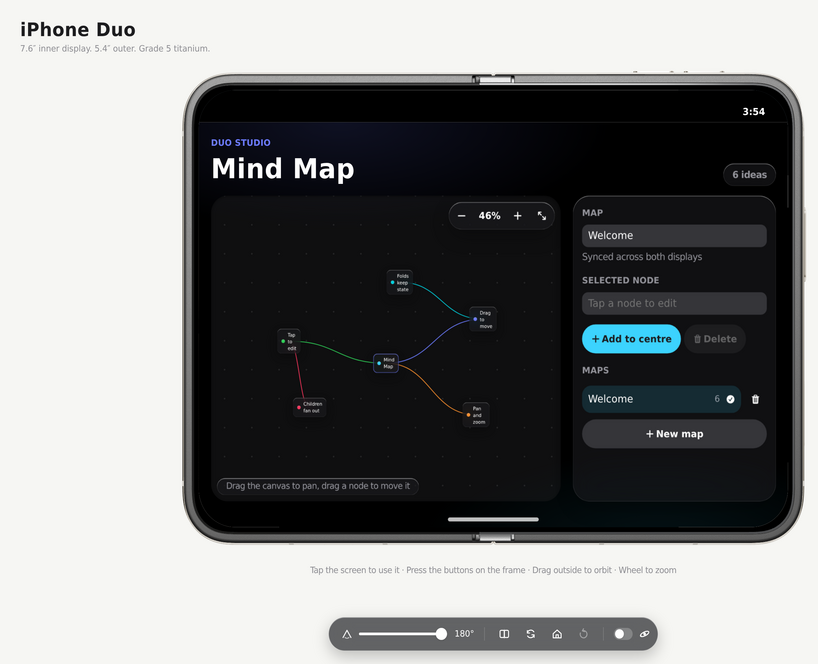
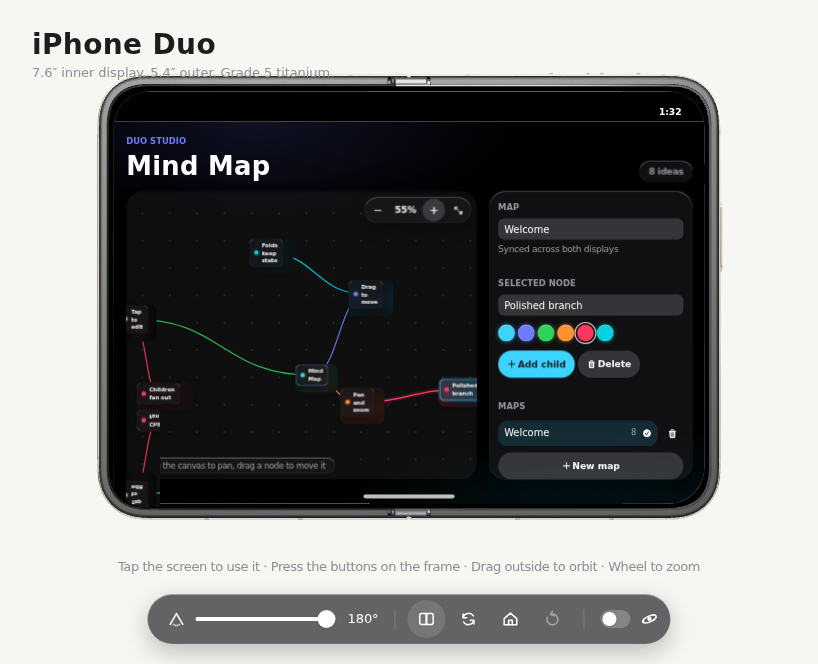
mind-map: polish nodes, edges and panel hierarchy
Strengthen the selected-node affordance (cyan ring plus halo, glowing
hue-matched parent edge), make node text semibold, draw new edges in via
stroke-dashoffset, and let remotely moved nodes glide while the locally
dragged node keeps its instant transform. The panel gains hairline section
separators, the cover gets its own hint, a roomier delete target, and a
check-marked Saved status; colour dots now glow in their own hue. Fresh
cover/inner screenshots from the running app.

diff --git a/community-apps/mind-map/styles.ts b/community-apps/mind-map/styles.ts
@@ -46,6 +46,13 @@ const fadeIn = stylex.keyframes({
   '0%': { opacity: 0 },
   '100%': { opacity: 1 }
 })
+// A new branch traces itself in: pathLength is set to 1 in markup so the
+// dash math is trivial, and the static style is visible so nothing vanishes
+// when the draw ends.
+const edgeIn = stylex.keyframes({
+  '0%': { strokeDashoffset: 1 },
+  '100%': { strokeDashoffset: 0 }
+})
 
 export const styles = stylex.create({
   root: {
@@ -143,8 +150,22 @@ export const styles = stylex.create({
   edges: { position: 'absolute', width: 1, height: 1, overflow: 'visible', pointerEvents: 'none' },
   // StyleX drops `fill` (not a styleable property), so paths carry fill="none"
   // as an attribute: without it the open curves fill black into the dark canvas.
-  edge: { strokeWidth: 2.5, strokeLinecap: 'round' },
-  edgeTone: (i: number) => ({ stroke: `color-mix(in srgb, ${HUES[i % HUES.length]} 78%, transparent)` }),
+  edge: {
+    strokeWidth: 3,
+    strokeLinecap: 'round',
+    strokeDasharray: 1,
+    animationName: { default: edgeIn, [reduce]: 'none' },
+    animationDuration: '.5s',
+    animationTimingFunction: easing.out
+  },
+  edgeTone: (i: number) => ({ stroke: `color-mix(in srgb, ${HUES[i % HUES.length]} 84%, transparent)` }),
+  // The branch feeding the selected node: thicker, full strength, and glowing
+  // in its own hue so the selection reads structurally, not only as a ring.
+  edgeSel: (i: number) => ({
+    strokeWidth: 3.5,
+    stroke: HUES[i % HUES.length],
+    filter: `drop-shadow(0 0 4px color-mix(in srgb, ${HUES[i % HUES.length]} 60%, transparent))`
+  }),
   node: {
     position: 'absolute',
     display: 'flex',
@@ -163,7 +184,7 @@ export const styles = stylex.create({
     fontFamily: fonts.system,
     fontSize: typeScale.footnote,
     lineHeight: leading.footnote,
-    fontWeight: weight.medium,
+    fontWeight: weight.semibold,
     textAlign: 'start',
     cursor: 'grab',
     touchAction: 'none',
@@ -172,20 +193,26 @@ export const styles = stylex.create({
     animationDuration: '.24s',
     animationTimingFunction: easing.pop,
     animationFillMode: 'both',
-    transitionProperty: 'box-shadow,background-color',
-    transitionDuration: '.18s',
+    // A node moved by the other display glides to its spot; the transform is
+    // suppressed on the locally dragged node or it would trail the finger.
+    transitionProperty: 'transform,box-shadow,background-color',
+    transitionDuration: '.22s,.18s,.18s',
+    transitionTimingFunction: easing.spring,
     ':focus-visible': { outline: `2px solid ${colors.cyanDark}`, outlineOffset: 2 }
   },
+  nodeDrag: { transitionDuration: '0s' },
   nodeCover: { maxWidth: '150px', paddingBlock: space.xs, paddingInline: space.sm, fontSize: typeScale.caption1 },
   nodeRoot: {
     boxShadow: `inset 0 0 0 1.5px color-mix(in srgb, ${colors.indigoDark} 70%, transparent),${shadow.rim},${shadow.float}`
   },
   nodeSel: {
     backgroundColor: {
-      default: `color-mix(in srgb, ${colors.cyanDark} 16%, transparent)`,
-      ':hover': `color-mix(in srgb, ${colors.cyanDark} 22%, transparent)`
+      default: `color-mix(in srgb, ${colors.cyanDark} 18%, transparent)`,
+      ':hover': `color-mix(in srgb, ${colors.cyanDark} 24%, transparent)`
     },
-    boxShadow: `inset 0 0 0 1.5px color-mix(in srgb, ${colors.cyanDark} 85%, transparent),${shadow.float}`
+    // An inner ring for shape plus a soft halo outside it: the selection must
+    // read at a glance even over the glowing edge it sits on.
+    boxShadow: `inset 0 0 0 1.5px color-mix(in srgb, ${colors.cyanDark} 90%, transparent),0 0 0 3px color-mix(in srgb, ${colors.cyanDark} 26%, transparent),${shadow.float}`
   },
   nodeAt: (x: number, y: number) => ({ transform: `translate(${x}px,${y}px) translate(-50%,-50%)` }),
   // A plain block: -webkit-box's min-content collapses to one character inside
@@ -196,8 +223,11 @@ export const styles = stylex.create({
     overflow: 'hidden',
     overflowWrap: 'break-word'
   },
-  dot: { width: 10, height: 10, borderRadius: radius.circle, flexShrink: 0, boxShadow: shadow.rim },
-  dotTone: (i: number) => ({ backgroundColor: HUES[i % HUES.length] }),
+  dot: { width: 10, height: 10, borderRadius: radius.circle, flexShrink: 0 },
+  dotTone: (i: number) => ({
+    backgroundColor: HUES[i % HUES.length],
+    boxShadow: `0 0 7px color-mix(in srgb, ${HUES[i % HUES.length]} 55%, transparent),${shadow.rim}`
+  }),
   zoomDock: {
     position: 'absolute',
     top: space.sm,
@@ -258,6 +288,8 @@ export const styles = stylex.create({
     fontSize: typeScale.caption1,
     fontWeight: weight.semibold
   },
+  // The cover tray's icon-only button gets a roomier target than the dock's.
+  iconBtnLg: { width: 36, height: 36 },
   hint: {
     position: 'absolute',
     left: space.sm,
@@ -399,6 +431,8 @@ export const styles = stylex.create({
   trayRow: { display: 'flex', alignItems: 'center', gap: space.xs, minWidth: 0 },
   trayField: { flex: 1, minWidth: 0 },
   sep: { width: 1, alignSelf: 'stretch', backgroundColor: app.separator, marginBlock: space.xxs },
+  // A hairline between the panel's sections so the tools read as groups.
+  sepH: { height: 1, alignSelf: 'stretch', backgroundColor: app.separator, marginBlock: space.xxs },
   grow: { flex: 1, minWidth: 0 },
   // The maps sheet on the cover: a scrim and a card, same list as the panel.
   scrim: {
@@ -447,6 +481,9 @@ export const styles = stylex.create({
   },
   sheetHead: { display: 'flex', alignItems: 'center', justifyContent: 'space-between', gap: space.sm },
   saved: {
+    display: 'flex',
+    alignItems: 'center',
+    gap: space.xxs,
     color: app.label2,
     fontSize: typeScale.caption2,
     lineHeight: leading.caption2,

diff --git a/community-apps/mind-map/main.tsx b/community-apps/mind-map/main.tsx
@@ -72,6 +72,9 @@ function MindMap() {
   const [sheet, setSheet] = useState(false)
   const [arming, setArming] = useState<string | null>(null)
   const [gesturing, setGesturing] = useState(false)
+  // The node this copy is dragging, so its move transition can switch off:
+  // a transitioning transform would trail the pointer instead of tracking it.
+  const [dragId, setDragId] = useState<string | null>(null)
   const canvasRef = useRef<HTMLDivElement>(null)
   const dragRef = useRef<Drag | null>(null)
   const suppressClick = useRef(false)
@@ -296,7 +299,10 @@ function MindMap() {
     const dx = e.clientX - d.px
     const dy = e.clientY - d.py
     if (!d.moved && Math.hypot(dx, dy) < 5) return
-    if (!d.moved) setGesturing(true)
+    if (!d.moved) {
+      setGesturing(true)
+      if (d.kind === 'node') setDragId(d.id)
+    }
     d.moved = true
     if (d.kind === 'pan') setDoc({ ...now, view: { ...now.view, x: d.ox + dx, y: d.oy + dy } })
     else if (d.id) setDoc(moveNode(now, d.id, d.ox + dx / now.view.zoom, d.oy + dy / now.view.zoom))
@@ -306,6 +312,7 @@ function MindMap() {
     if (!d || e.pointerId !== d.pointerId) return
     dragRef.current = null
     setGesturing(false)
+    setDragId(null)
     if (d.moved) {
       suppressClick.current = true
       if (docRef.current) publish(docRef.current)
@@ -445,7 +452,8 @@ function MindMap() {
                 key={n.id}
                 d={edgePath(doc.nodes[n.parent!]!, n)}
                 fill="none"
-                {...stylex.props(styles.edge, styles.edgeTone(n.color))}
+                pathLength={1}
+                {...stylex.props(styles.edge, sel === n.id ? styles.edgeSel(n.color) : styles.edgeTone(n.color))}
               />
             ))}
         </svg>
@@ -469,7 +477,8 @@ function MindMap() {
               !wide && styles.nodeCover,
               styles.nodeAt(n.x, n.y),
               n.id === doc.root && styles.nodeRoot,
-              sel === n.id && styles.nodeSel
+              sel === n.id && styles.nodeSel,
+              dragId === n.id && styles.nodeDrag
             )}
           >
             <i aria-hidden="true" {...stylex.props(styles.dot, styles.dotTone(n.color))} />
@@ -478,7 +487,9 @@ function MindMap() {
         ))}
       </div>
       {zoomDock}
-      {wide && <span {...stylex.props(styles.hint)}>Drag the canvas to pan, drag a node to move it</span>}
+      <span {...stylex.props(styles.hint)}>
+        {wide ? 'Drag the canvas to pan, drag a node to move it' : 'Drag to pan, tap a node'}
+      </span>
     </div>
   )
 
@@ -507,7 +518,9 @@ function MindMap() {
                   {saving ? 'Saving...' : 'Synced across both displays'}
                 </small>
               </div>
+              <span {...stylex.props(styles.sepH)} />
               {nodeTools}
+              <span {...stylex.props(styles.sepH)} />
               {mapsSection}
             </aside>
           </section>
@@ -543,11 +556,12 @@ function MindMap() {
                 disabled={!selected || selected.id === doc.root}
                 aria-label={arming === selected?.id ? 'Confirm delete node' : 'Delete node'}
                 onClick={() => selected && (arming === selected.id ? dropNode(selected.id) : setArming(selected.id))}
-                {...stylex.props(styles.iconBtn, arming === selected?.id && styles.btnWarn)}
+                {...stylex.props(styles.iconBtn, styles.iconBtnLg, arming === selected?.id && styles.btnWarn)}
               >
                 <Sym name="trash" size={13} />
               </button>
               <span role="status" {...stylex.props(styles.saved)}>
+                {!saving && <Sym name="check" size={10} />}
                 {saving ? 'Saving' : 'Saved'}
               </span>
             </div>
